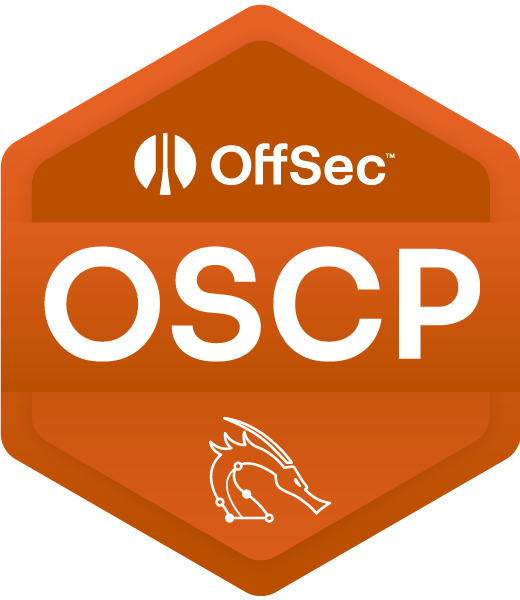
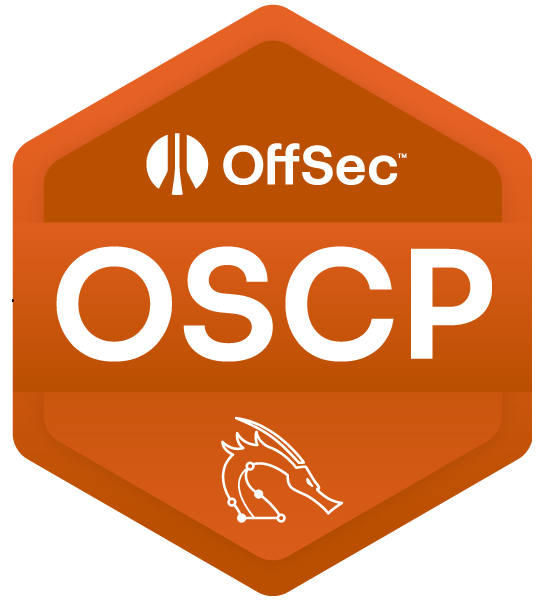
update

diff --git a/_posts/blog/2025-06-08-oscp.md b/_posts/blog/2025-06-08-oscp.md
@@ -10,7 +10,7 @@ layout: single
 excerpt: "Lessons, failures, and practical tips."
 author_profile: true
 header:
-  teaser: /assets/images/shellcode.png
+  teaser: /assets/images/oscp1.png
 ---
 
 
